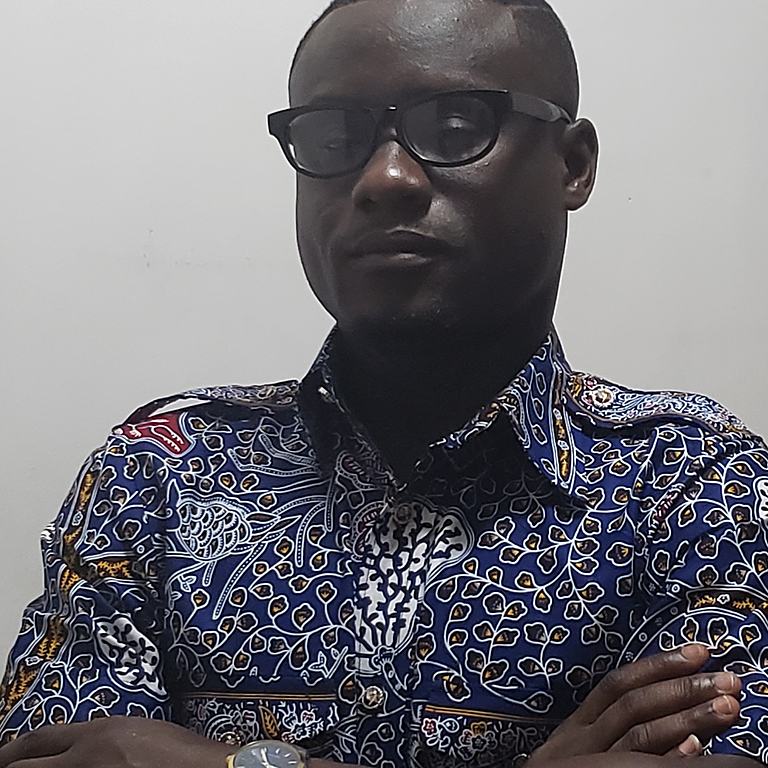
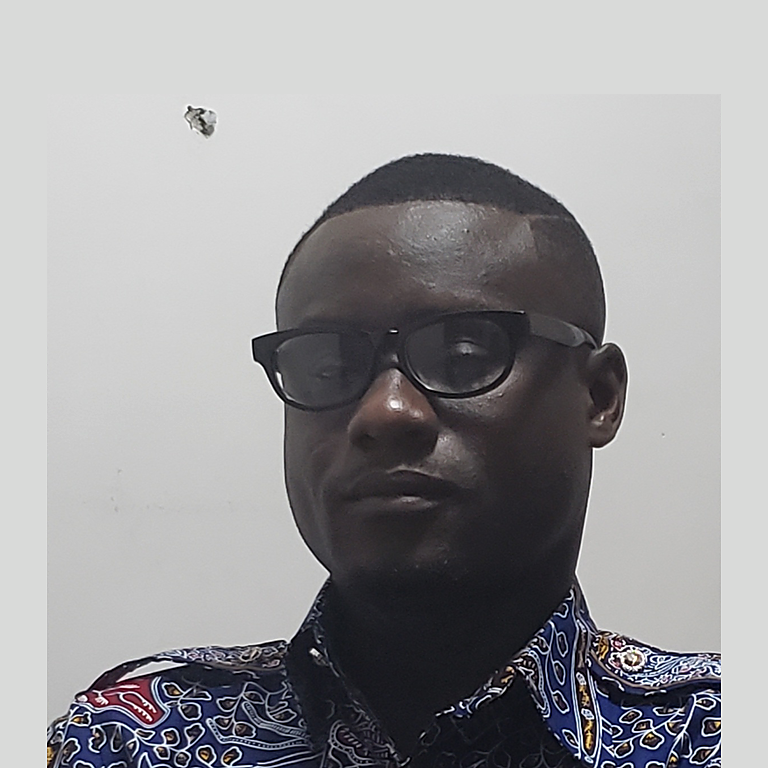
Reframe founder portrait so the head clears the circular crop.

diff --git a/index.html b/index.html
@@ -11,7 +11,7 @@
   <link rel="preconnect" href="https://fonts.googleapis.com">
   <link rel="preconnect" href="https://fonts.gstatic.com" crossorigin>
   <link href="https://fonts.googleapis.com/css2?family=Lato:wght@300;400;700;900&family=Oswald:wght@400;500;600;700&display=swap" rel="stylesheet">
-  <link rel="stylesheet" href="assets/genehus.css?v=20260801ai">
+  <link rel="stylesheet" href="assets/genehus.css?v=20260801ak">
   <meta http-equiv="Cache-Control" content="no-cache">
 </head>
 <body>
@@ -288,7 +288,7 @@
       <p class="team-label" id="founders">Founders</p>
       <div class="founder-grid">
         <article class="person-card">
-          <img class="person-photo" src="assets/founder-nana.png?v=9" alt="Nana Safo Duker" width="580" height="580" loading="lazy" decoding="async">
+          <img class="person-photo" src="assets/founder-nana.png?v=11" alt="Nana Safo Duker" width="580" height="580" loading="lazy" decoding="async">
           <h3>Nana Safo Duker</h3>
           <p class="person-role">Co-Founder &amp; CEO</p>
           <a class="person-link" href="https://nana-safo-duker.github.io/" target="_blank" rel="noopener">Website</a>

diff --git a/assets/genehus.css b/assets/genehus.css
@@ -907,7 +907,7 @@ ol {
   height: 290px;
   border-radius: 50%;
   object-fit: cover;
-  object-position: center 28%;
+  object-position: center center;
   margin-bottom: 14px;
   border: 2px solid var(--gold);
   background: #ffffff;
